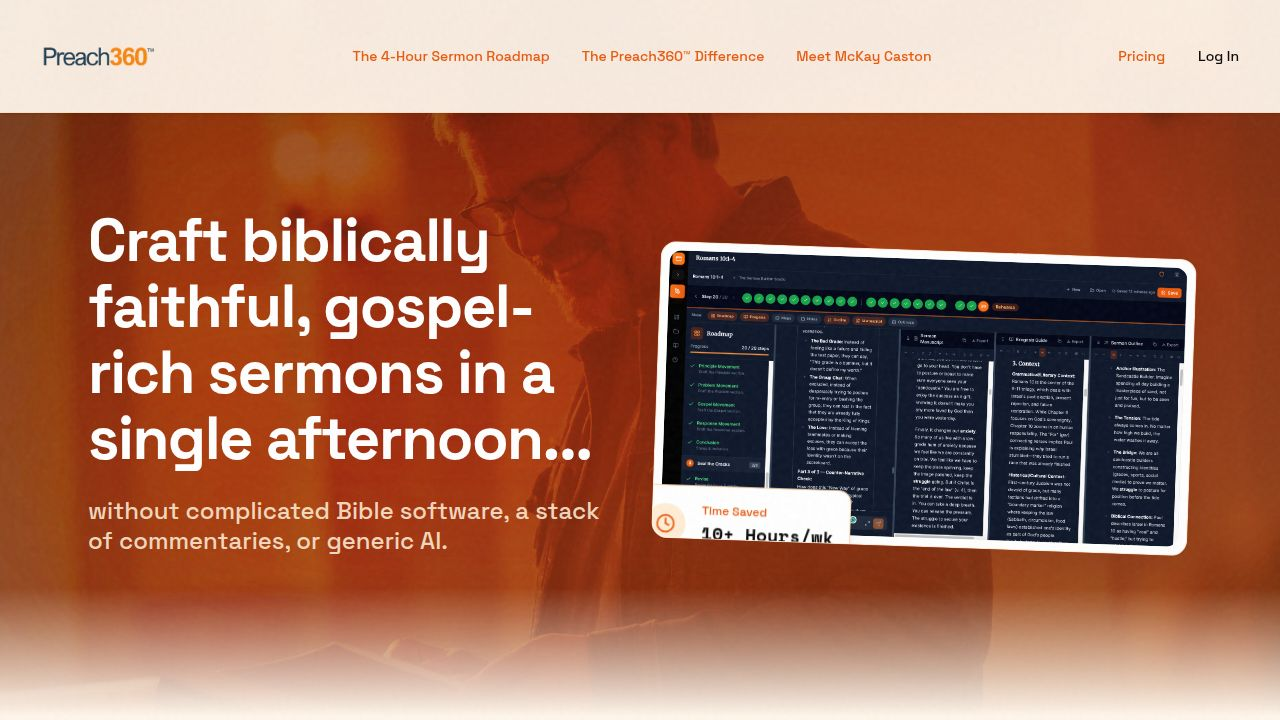
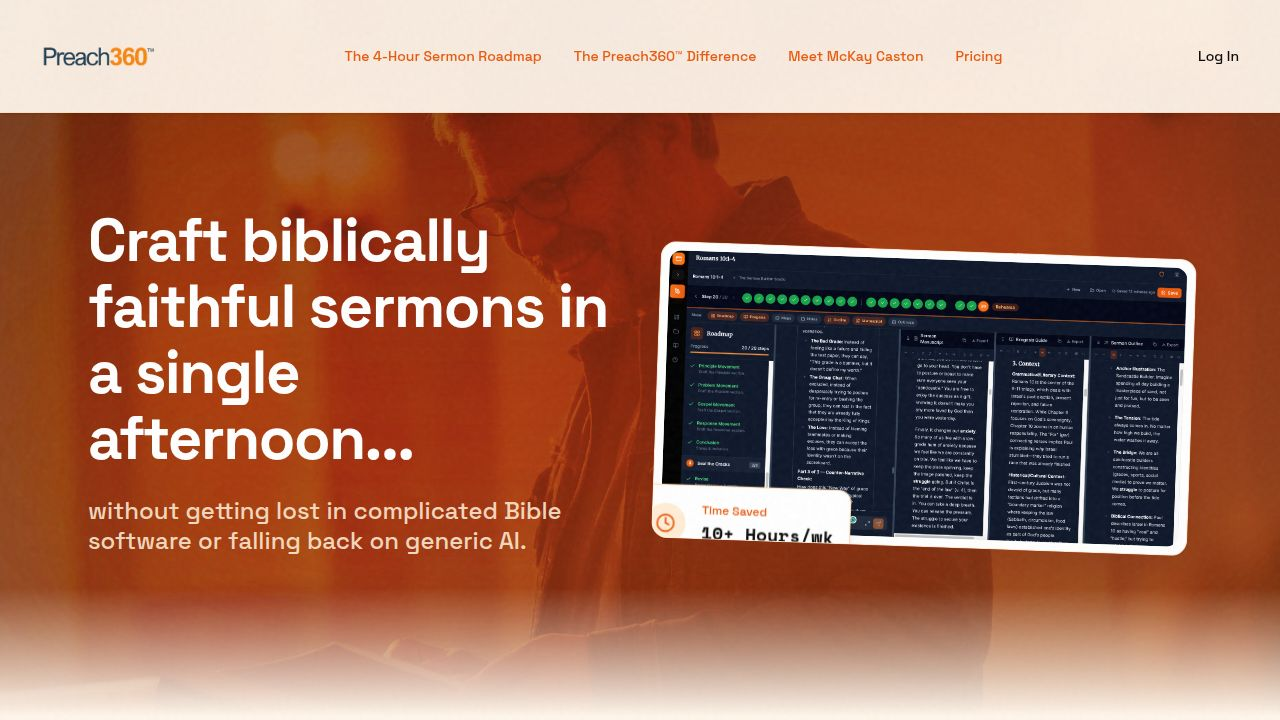
Update introductory text to highlight sermon preparation speed and platform purpose
Modify the introductory text within the home page component to reflect the updated messaging regarding sermon preparation efficiency and the platform's core function.

Replit-Commit-Author: Agent
Replit-Commit-Session-Id: b40ebc65-716c-42ff-8a29-f355e8ec55d6
Replit-Commit-Checkpoint-Type: full_checkpoint
Replit-Commit-Event-Id: a4520689-800b-4103-8fb0-77b12dd95624
Replit-Commit-Screenshot-Url: https://storage.googleapis.com/screenshot-production-us-central1/52b2e9a9-1aca-4f31-b761-2a0e85fbc987/b40ebc65-716c-42ff-8a29-f355e8ec55d6/T0dyYyV
Replit-Helium-Checkpoint-Created: true

diff --git a/client/src/pages/home.tsx b/client/src/pages/home.tsx
@@ -91,7 +91,8 @@ export default function Home() {
           
           <div className="text-lg md:text-xl text-muted-foreground leading-relaxed max-w-4xl mx-auto space-y-6">
             <div className="text-lg md:text-xl space-y-6 text-left md:text-center text-muted-foreground">
-              <p>Introducing Preach360™—the online sermon studio built for pastors by a pastor.</p>
+              <p>Thankfully, with Preach360, you can prep a biblically faithful sermon in a single afternoon.</p>
+              <p>Preach360 is the online sermon studio built for pastors by a pastor.</p>
               <p><strong className="text-foreground">A Simple Process.</strong> Just follow the prompts.</p>
               <p><strong className="text-foreground">A Guided Process.</strong> Unlike generic AI tools, it doesn't do the work for you. It does the work with you.</p>
               <p><strong className="text-foreground">An Intuitive Process.</strong> Rather than inventing an artificial outline, you simply unfold the organic, redemptive message that's already in the text.</p>
